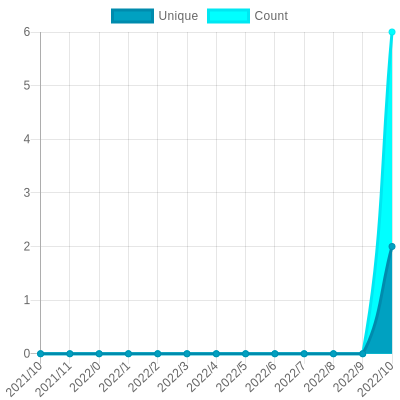
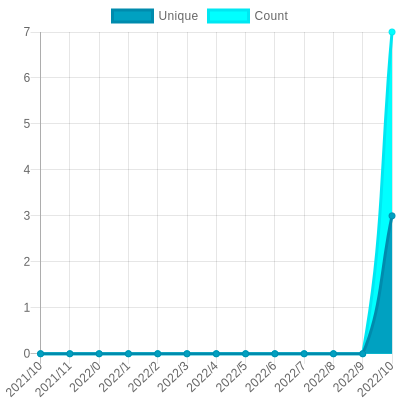
Update views

diff --git a/readme/385502222/year.md b/readme/385502222/year.md
@@ -23,10 +23,10 @@
 			<code>2021/11/1</code>
 		</td>
 		<td>
-			<code>2</code>
+			<code>3</code>
 		</td>
 		<td>
-			<code>6</code>
+			<code>7</code>
 		</td>
 	</tr>
 	<tr>
@@ -164,7 +164,7 @@
 </table>
 
 </details>
-<small><i>Last updated on 2021/11/23 6:27 AM UTC</i></small>
+<small><i>Last updated on 2021/11/23 12:36 PM UTC</i></small>
 
 ## ✂Copy and 📋 Paste
 ### SVG Badge

diff --git a/README.md b/README.md
@@ -149,7 +149,7 @@ The project created and maintained by [gayanvoice](https://github.com/gayanvoice
 	</tr>
 </table>
 
-<small><i>Last updated on 2021/11/23 6:28 AM UTC</i></small>
+<small><i>Last updated on 2021/11/23 12:36 PM UTC</i></small>
 
 ## ✂Copy and 📋 Paste
 ### Total Views Badge

diff --git a/readme/348337317/year.md b/readme/348337317/year.md
@@ -164,7 +164,7 @@
 </table>
 
 </details>
-<small><i>Last updated on 2021/11/23 6:26 AM UTC</i></small>
+<small><i>Last updated on 2021/11/23 12:35 PM UTC</i></small>
 
 ## ✂Copy and 📋 Paste
 ### SVG Badge

diff --git a/readme/350683139/year.md b/readme/350683139/year.md
@@ -164,7 +164,7 @@
 </table>
 
 </details>
-<small><i>Last updated on 2021/11/23 6:27 AM UTC</i></small>
+<small><i>Last updated on 2021/11/23 12:36 PM UTC</i></small>
 
 ## ✂Copy and 📋 Paste
 ### SVG Badge

diff --git a/readme/381924543/year.md b/readme/381924543/year.md
@@ -164,7 +164,7 @@
 </table>
 
 </details>
-<small><i>Last updated on 2021/11/23 6:27 AM UTC</i></small>
+<small><i>Last updated on 2021/11/23 12:36 PM UTC</i></small>
 
 ## ✂Copy and 📋 Paste
 ### SVG Badge

diff --git a/readme/385501407/year.md b/readme/385501407/year.md
@@ -164,7 +164,7 @@
 </table>
 
 </details>
-<small><i>Last updated on 2021/11/23 6:27 AM UTC</i></small>
+<small><i>Last updated on 2021/11/23 12:36 PM UTC</i></small>
 
 ## ✂Copy and 📋 Paste
 ### SVG Badge

diff --git a/readme/421063547/year.md b/readme/421063547/year.md
@@ -164,7 +164,7 @@
 </table>
 
 </details>
-<small><i>Last updated on 2021/11/23 6:27 AM UTC</i></small>
+<small><i>Last updated on 2021/11/23 12:35 PM UTC</i></small>
 
 ## ✂Copy and 📋 Paste
 ### SVG Badge

diff --git a/readme/421164512/year.md b/readme/421164512/year.md
@@ -164,7 +164,7 @@
 </table>
 
 </details>
-<small><i>Last updated on 2021/11/23 6:26 AM UTC</i></small>
+<small><i>Last updated on 2021/11/23 12:35 PM UTC</i></small>
 
 ## ✂Copy and 📋 Paste
 ### SVG Badge

diff --git a/readme/422092179/year.md b/readme/422092179/year.md
@@ -164,7 +164,7 @@
 </table>
 
 </details>
-<small><i>Last updated on 2021/11/23 6:26 AM UTC</i></small>
+<small><i>Last updated on 2021/11/23 12:35 PM UTC</i></small>
 
 ## ✂Copy and 📋 Paste
 ### SVG Badge
